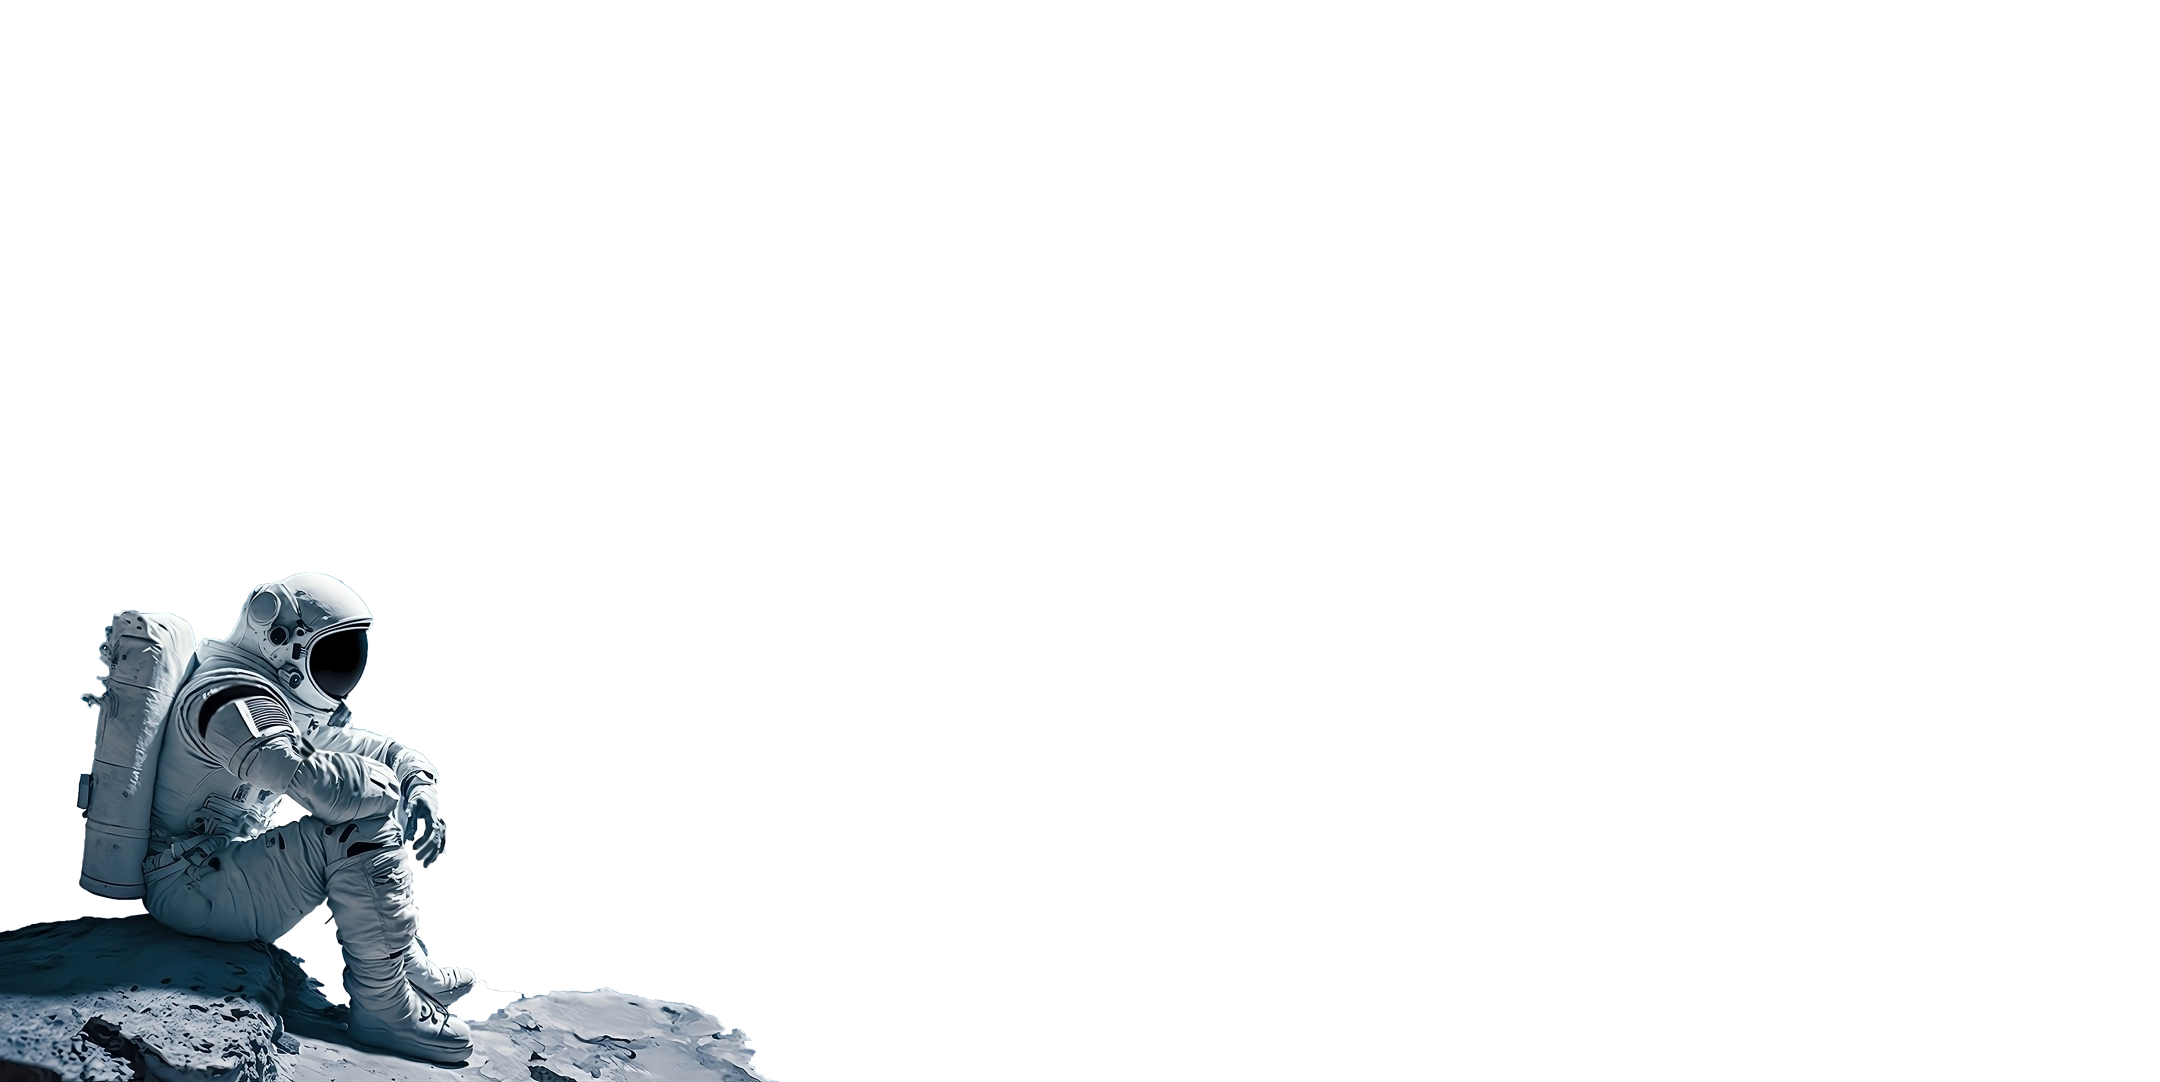
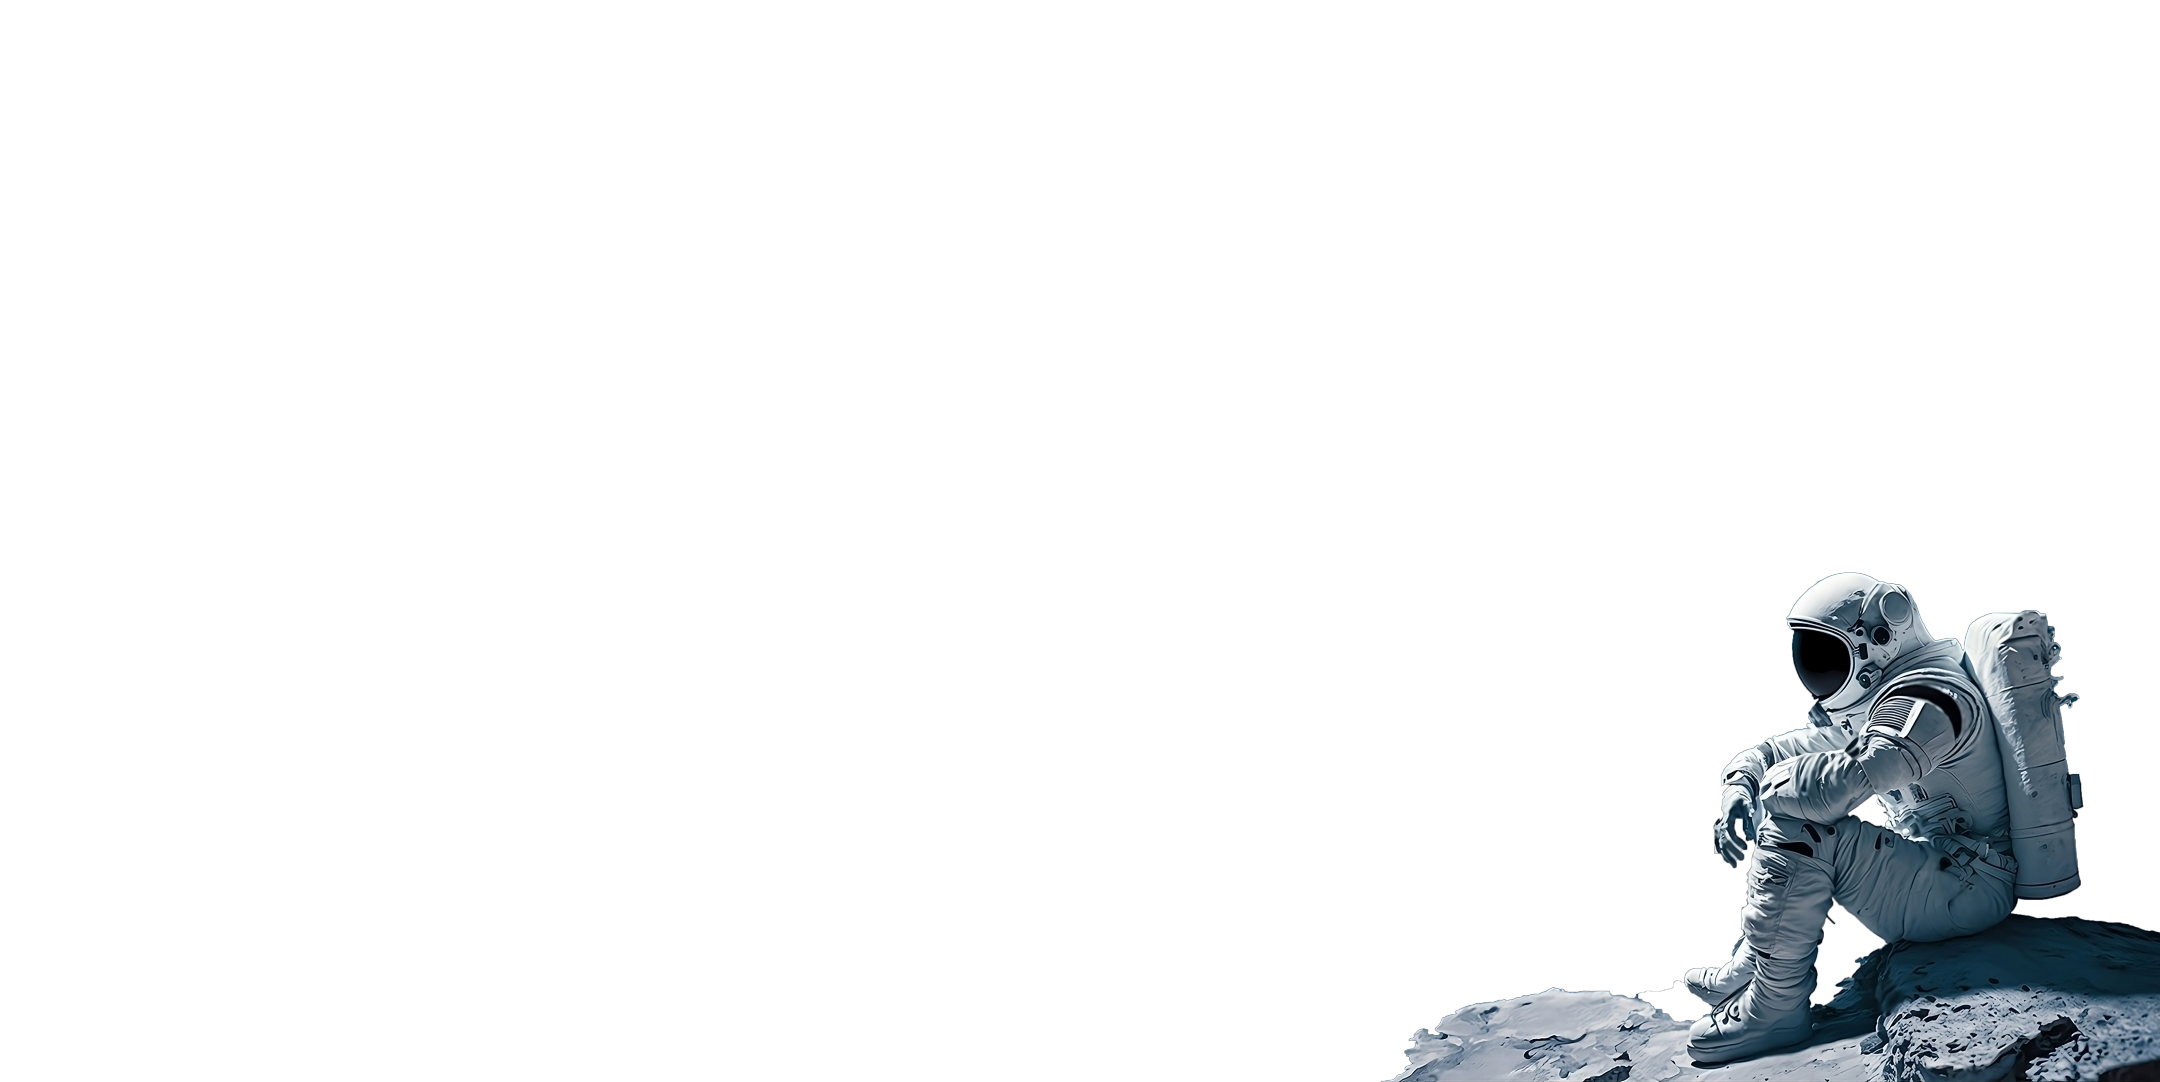
x

Changed region(s): [[0.0, 0.5185, 0.3722, 1.0], [0.6514, 0.5185, 1.0, 1.0]]

diff --git a/css/style.css b/css/style.css
@@ -3,6 +3,7 @@
 body {
     margin: 0;
     padding: 0;
+    box-sizing: border-box;
     background: #000;
 }
 
@@ -13,24 +14,45 @@ header {
     align-items: center;
     color: white;
     width: 100%;
-    /*display: none;*/
+    padding-top: 20px;
+    z-index: 1000;
+    transition: all 200ms ease;
     font-family: 'Nunito Sans', sans-serif;
 }
 
-nav > ul {
-    display: flex;
-    gap: 10px;
+header:hover {
+    background: rgba(0,0,0,0.5);
 }
 
-nav > ul > li {
-    list-style: none;
-}
-
-nav > ul > li > a {
+header > a {
     text-decoration: none;
     color: white;
 }
 
+header > h1 {
+    margin-left: 100px;
+}
+
+nav {
+    display: flex;
+    gap: 20px;
+}
+
+nav > button {
+    all: unset;
+    list-style: none;
+}
+
+nav > button > a {
+    font-size: 1.5rem;
+    text-decoration: none;
+    color: white;
+    transition: all 200ms ease;
+}
+
+nav > button:hover {
+    border-bottom: 2px solid white;
+}
 
 section {
     position: relative;
@@ -49,35 +71,7 @@ section > img {
 }
 
 #lunar {
-    transform: translateY(10%);
-}
-
-#quote {
-    position: absolute;
-    margin-top: 100px;
-    right: 1%;
-    padding: 20px;
-    color: white;
-    z-index: -1;
-}
-
-.glass {
-    background: rgba(255, 255, 255, 0.1);
-    border-radius: 16px;
-    box-shadow: 0 4px 30px rgba(0, 0, 0, 0.1);
-    backdrop-filter: blur(5px);
-    -webkit-backdrop-filter: blur(1px);
-    border: 1px solid rgba(255, 255, 255, 0.5);
-}
-
-#quote-text {
-    font-style: italic;
-    font-size: 1.7rem;
-    font-family: 'Nunito Sans', sans-serif;
-}
-
-#quote-author {
-
+    /*transform: translateY(10%);*/
 }
 
 main {

diff --git a/index.html b/index.html
@@ -10,27 +10,21 @@
 </head>
 <body>
 <header>
-    <h1>ASTRA</h1>
+    <a href="/index.html">
+        <h1>ASTRA</h1>
+    </a>
     <nav>
-        <ul>
-            <li><a href="/">Home</a></li>
-            <li><a href="/mission">Missions</a></li>
-            <li><a href="/gallery">Galleries</a></li>
-            <li><a href="/about">About</a></li>
-        </ul>
+        <button><a href="index.html">Home</a></button>
+        <button><a href="pages/mission.html">Missions</a></button>
+        <button><a href="pages/galleries.html">Galleries</a></button>
+        <button><a href="pages/about.html">About</a></button>
     </nav>
 </header>
 
 <section id="parallax">
-    <img src="/img/Earth.png" id="earth" alt=""/>
-    <img src="/img/Lunar_Surface.png" id="lunar" alt=""/>
-    <img src="/img/Astronaut.png" id="astronaut" alt=""/>
-    <!--  “The Earth is the cradle of humanity, <br> but mankind cannot stay in the cradle forever.”  -->
-    <!-- div id="quote">
-        <h1 id="quote-text">“The Earth is the cradle of humanity, <br> but mankind cannot stay in the cradle forever.”</h1>
-        <p id="quote-author">-Konstantin Tsiolkovsky</p>
-    </div -->
-
+    <img src="img/Earth.png" id="earth" alt=""/>
+    <img src="img/Lunar_SurfaceX.png" id="lunar" alt=""/>
+    <img src="img/AstronautX.png" id="astronaut" alt=""/>
 </section>
 
 <main>

diff --git a/README.md b/README.md
@@ -1,2 +1,2 @@
 # ASTRA
-Space Org Website using HTML, CSS, JS
+Space Org Website using `HTML`, `CSS`, `JS`
